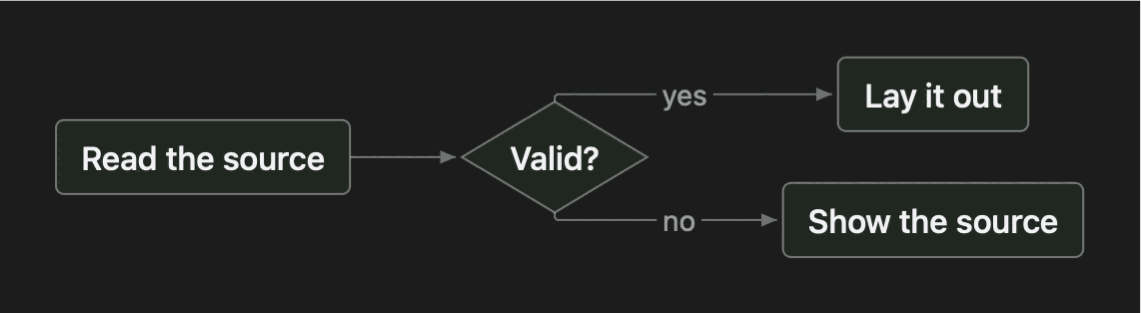
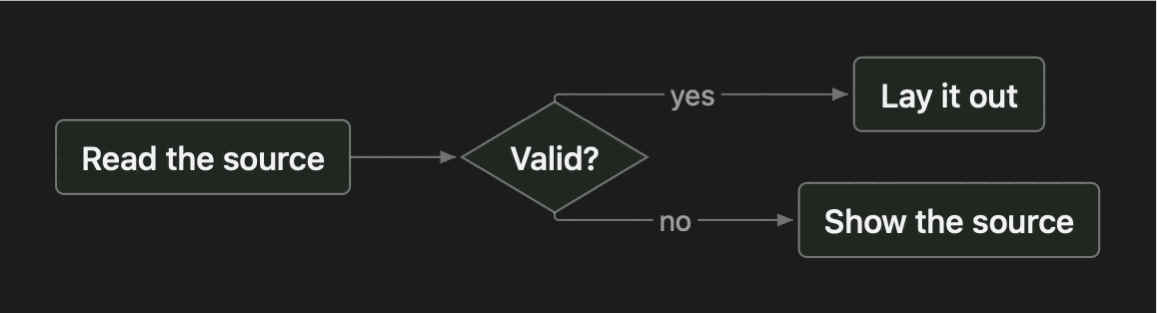
Release v2.10.0: subgraphs that span rows, fans that don't cross, ends that don't hook (#116)
CHANGELOG 2.10.0 (#102-#115), version pins 2.9.1 -> 2.10.0, test counts
from main's CI on 382ad1e (578 macOS, 546 Linux), the flowchart and
text-scale gallery images regenerated with scripts/gen-gallery.sh (the
only ones whose drawing changed), and the two new lint rules in the docs.

Claude-Session: https://claude.ai/code/session_01CeNSFRunU3xcUfxEgcN8SX

diff --git a/docs/index.html b/docs/index.html
@@ -388,7 +388,7 @@
       <div class="kicker" style="margin-top:22px">Install</div>
 <pre>.<span class="tt">package</span>(
   <span class="ta">url:</span> <span class="ts">"https://github.com/2389-research/MermaidKit.git"</span>,
-  <span class="ta">from:</span> <span class="ts">"2.9.1"</span>
+  <span class="ta">from:</span> <span class="ts">"2.10.0"</span>
 )</pre>
     </div>
     <div>
@@ -538,7 +538,7 @@ flowchart TD
     <div class="stat"><div class="n">5</div><div class="l">input front-ends: Mermaid, DOT, Dippin, SQL DDL, git log</div></div>
     <div class="stat"><div class="n">0</div><div class="l">third-party deps by default (Silica-free), JS, or WebView</div></div>
     <div class="stat"><div class="n">~25 ms</div><div class="l">worst cold render incl. rasterization (sankey); most types under ~15 ms</div></div>
-    <div class="stat"><div class="n">548</div><div class="l">tests in CI on macOS (516 on Linux)</div></div>
+    <div class="stat"><div class="n">578</div><div class="l">tests in CI on macOS (546 on Linux)</div></div>
     <div class="stat"><div class="n">6</div><div class="l">native platforms: macOS/iOS, Linux, Android, Windows, WASM, Flutter (+ framebuffer/SDL)</div></div>
     <div class="stat"><div class="n">MIT</div><div class="l">license</div></div>
   </div>
@@ -582,7 +582,7 @@ flowchart TD
     <a class="doccard" href="https://github.com/2389-research/MermaidKit/blob/main/docs/notes/sequence-primitives-research.md"><b>Sequence Primitives</b><span>The maximal set of sequence-diagram primitives, surveyed across mermaid.js, PlantUML, and ZenUML.</span></a>
     <a class="doccard" href="https://github.com/2389-research/MermaidKit/blob/main/docs/notes/development-approach.md"><b>How It's Built</b><span>The practices behind the project — strong boundaries, tests that encode taste, and verifying against reality.</span></a>
     <a class="doccard" href="https://github.com/2389-research/MermaidKit/blob/main/CONTRIBUTING.md"><b>Contributing</b><span>The lay of the land, the geometry-first review bar, and developing on Linux.</span></a>
-    <a class="doccard" href="https://github.com/2389-research/MermaidKit/blob/main/CHANGELOG.md"><b>Changelog</b><span>Every release through 2.9 — native Android/Windows/Flutter/WASM rendering, bare surfaces, cross-platform conformance, SVG export, multi-format input, full flowchart link styles and shapes, Dynamic Type, flowchart parsing checked against mermaid.js, a font family on the theme, and Mac Catalyst — with the reasoning behind each change.</span></a>
+    <a class="doccard" href="https://github.com/2389-research/MermaidKit/blob/main/CHANGELOG.md"><b>Changelog</b><span>Every release through 2.10 — native Android/Windows/Flutter/WASM rendering, bare surfaces, cross-platform conformance, SVG export, multi-format input, full flowchart link styles and shapes, Dynamic Type, flowchart parsing checked against mermaid.js, a font family on the theme, and Mac Catalyst — with the reasoning behind each change.</span></a>
   </div>
 </div></section>
 

diff --git a/Sources/MermaidKitC/MermaidKitC.swift b/Sources/MermaidKitC/MermaidKitC.swift
@@ -250,7 +250,7 @@ public func mmk_free(_ ptr: UnsafeMutablePointer<CChar>?) {
 // read thereafter (an immutable, program-lifetime C string), so the shared
 // mutable-state check doesn't apply.
 nonisolated(unsafe) private let versionCString: UnsafeMutablePointer<CChar>? =
-    strdup("MermaidKitC 2.9.1")
+    strdup("MermaidKitC 2.10.0")
 
 /// The MermaidKitC ABI version. Returns a pointer to a static string that the
 /// caller MUST NOT free (unlike the `mmk_scene_json` / `mmk_narrate` returns).

diff --git a/docs/product.md b/docs/product.md
@@ -15,14 +15,14 @@ Feature groups are labeled **G1–G12** and referenced by shorthand throughout.
 | :--- | :--- |
 | Name | MermaidKit |
 | Definition | A native Swift library that parses, lays out, and renders [Mermaid](https://mermaid.js.org) diagrams. The diagram source is the input; the library produces typed models, pure geometry (a scene IR), and drawn images and PDF — natively on Apple (CoreGraphics/CoreText), Linux (Silica/Cairo), Android (Kotlin `Canvas`/Skia), Windows/.NET (SkiaSharp), WebAssembly, and Flutter (Dart), from one platform-free layout core. No JavaScript, no WebView, no Mermaid.js. |
-| Status | **2.9** — stable public API (the 1.0 entry points are frozen; model/layout field changes are semver-major). Latest tag `v2.9.1`. Since 1.0, additive except new `NodeShape` cases (1.2.0, 2.4.0), which break exhaustive switches outside the package: alternate front-ends (Graphviz DOT, Dippin, SQL DDL, and a `git log` → gitgraph front-end) and DOT export (**G10**), a platform-free `RenderScene` render IR with standalone SVG export for all 30 types (**G12**), a terminal renderer (**G11**), diagram narration (**G6**), new flowchart node shapes and link styles, `@{ shape }` data and opt-in grid snapping (**G2**), Dynamic Type text scaling on every platform (`DiagramSpacing.textScale`, `mmk_scene_json_options`), flowchart parsing checked against mermaid.js's own parser (`;` statements, entities, `diagnose` notes for what a chart left out), a theme font family (`DiagramTheme.fontFamily`), format-aware attachment/narration entry points, and — over the platform-free `RenderScene`/`SceneWire` contract — native renderers on Android (Kotlin `Canvas`), Windows/.NET (SkiaSharp), WebAssembly, and Flutter, plus a bare-surface RGBA raster. Apple rendering is dependency-free; Linux/Silica is behind the `LinuxRaster` package trait (so no-trait consumers keep a Silica-free graph); `MermaidLayout` is platform-free. |
+| Status | **2.10** — stable public API (the 1.0 entry points are frozen; model/layout field changes are semver-major). Latest tag `v2.10.0`. Since 1.0, additive except new `NodeShape` cases (1.2.0, 2.4.0), which break exhaustive switches outside the package: alternate front-ends (Graphviz DOT, Dippin, SQL DDL, and a `git log` → gitgraph front-end) and DOT export (**G10**), a platform-free `RenderScene` render IR with standalone SVG export for all 30 types (**G12**), a terminal renderer (**G11**), diagram narration (**G6**), new flowchart node shapes and link styles, `@{ shape }` data and opt-in grid snapping (**G2**), Dynamic Type text scaling on every platform (`DiagramSpacing.textScale`, `mmk_scene_json_options`), flowchart parsing checked against mermaid.js's own parser (`;` statements, entities, `diagnose` notes for what a chart left out), a theme font family (`DiagramTheme.fontFamily`), format-aware attachment/narration entry points, and — over the platform-free `RenderScene`/`SceneWire` contract — native renderers on Android (Kotlin `Canvas`), Windows/.NET (SkiaSharp), WebAssembly, and Flutter, plus a bare-surface RGBA raster. Apple rendering is dependency-free; Linux/Silica is behind the `LinuxRaster` package trait (so no-trait consumers keep a Silica-free graph); `MermaidLayout` is platform-free. |
 | Repository | github.com/2389-research/MermaidKit |
 | Platforms | Rendering: Apple — macOS 14+, iOS 17+, Mac Catalyst 17+, visionOS 1+ (CoreGraphics/CoreText); Linux (Silica/Cairo); Android (Kotlin `Canvas`/Skia via JNI); Windows/.NET (SkiaSharp); WebAssembly; Flutter (Dart `CustomPainter`); plus a bare-surface RGBA raster (framebuffer/SDL). Geometry (`MermaidLayout`): platform-free — builds and tests on any swift-corelibs-foundation target. |
 | Language / runtime | Swift 6 (`swift-tools-version: 6.2`, strict concurrency; the Silica backend's transitive graph sets a Swift 6.2 / Xcode 26 floor). Drawing via CoreGraphics/CoreText on Apple, Silica/Cairo on Linux. Zero JavaScript at runtime; local-only. |
 | Rendering | Native geometry pipeline: parse → layout → common scene IR → draw. The layout core and scene IR are platform-free; each platform supplies only the draw surface (CoreGraphics, Silica/Cairo, Android/Skia `Canvas`, SkiaSharp, Flutter `Canvas`, or SVG). No web view, no headless browser, no Mermaid.js. |
 | Dependencies | Zero third-party packages on Apple. On Linux the render backend adds Silica (Cairo/FontConfig); `MermaidLayout` depends on nothing. |
 | Coverage | **30 distinct diagram types** (`MermaidDiagram` enum, 30-branch parser dispatch, 30-row README matrix, 30 fixtures). |
-| Verification | 548 package tests on macOS, 0 failures (4 intentionally env-gated skips). On Linux, 516 tests run in a `swift:6.2` container (2 skipped) — the `MermaidLayout` and `MermaidKitC` suites, the cross-platform `MermaidRender` tests, and the Silica render smoke tests (all 30 fixtures render). |
+| Verification | 578 package tests on macOS, 0 failures (4 intentionally env-gated skips). On Linux, 546 tests run in a `swift:6.2` container (2 skipped) — the `MermaidLayout` and `MermaidKitC` suites, the cross-platform `MermaidRender` tests, and the Silica render smoke tests (all 30 fixtures render). |
 | Origin | Built so that a diagram's source of truth stays the Mermaid text — parsed, laid out, and drawn natively in a Swift app — with layout judged by machine-checkable geometry rather than pixels, and with no runtime dependency on a JavaScript engine or web view. Consumed by the Quoin markdown editor as a first-party engine. |
 
 ---
@@ -101,7 +101,7 @@ design in `SceneGeometryAndLinting.md`.
 | Feature | Specific |
 | :--- | :--- |
 | Common scene IR | Every laid-out diagram lowers to one `DiagramScene` (nodes, edges as polylines, labels, containers) via `DiagramScene.lower(_:measure:)` — the level at which invariants are checked. |
-| Linter — errors | `edge-occludes-node` (a wire crossing a box interior), `edge-endpoint-detached`, `edges-doubled`, `nodes-overlap`, `off-canvas`, `edge-cuts-label` (a foreign edge slicing label text), `label-on-fixture` and `label-crowds-edge` (edge-label placement), `mark-escapes-plot` (a series leaving a dominant chart plot). Measured with real (Liang–Barsky) geometry and injected text metrics, not bounding-box guesses. |
+| Linter — errors | `edge-occludes-node` (a wire crossing a box interior), `edge-endpoint-detached`, `edges-doubled`, `edge-end-hooked` (a route bending within an arrowhead of a node), `nodes-overlap`, `off-canvas`, `edge-cuts-label` (a foreign edge slicing label text), `label-on-fixture`, `label-crowds-edge` and `label-cut-by-own-edge` (edge-label placement), `mark-escapes-plot` (a series leaving a dominant chart plot). Measured with real (Liang–Barsky) geometry and injected text metrics, not bounding-box guesses. |
 | Linter — warnings | `labels-overlap`, `label-over-node`, `edge-under-label`, `edge-crossings` (beyond a `max(2, edges/3)` budget). |
 | Scene delta | `SceneDelta` reports moved/added/removed nodes (with displacement vectors), rerouted edges, and canvas resize, with a one-line human summary (e.g. `+2 nodes · 3 nodes moved (max 14pt)`). |
 | Lint delta / verdict | `LintDelta` reports which violations a change cleared vs introduced and returns a verdict — `✓ fixed`, `✗ regressed (+N errors)`, `↓ improved`, or `= no error change` — the machine-readable "did this change help?" signal, above a pixel pdiff. |
@@ -167,8 +167,8 @@ Named properties with dedicated tests, run on every CI build.
 
 | Feature | Specific |
 | :--- | :--- |
-| Test suite | 548 package tests, 0 failures (4 intentionally env-gated skips: doc-image generation, single-type lint, the cross-process determinism-signature dump, and the mermaid.js oracle dump). 475 layout tests, 57 render tests, 16 MermaidKitC tests. Flowchart parsing is also checked against mermaid.js's own parser by `scripts/check-mermaid-oracle.sh` in CI: 1,330 of 1,588 charts agree, and no chart may read worse than its recorded baseline. |
-| Cross-platform | 516 tests green on Linux (`swift:6.2` container, `--traits LinuxRaster`, 2 skipped): the `MermaidLayout` and `MermaidKitC` suites, the cross-platform `MermaidRender` tests, and the Silica render smoke tests (all 30 fixtures render). `MermaidLayout` still builds on bare swift-corelibs-foundation with the default (Silica-free) graph, so the platform-free contract stays compiler-enforced. |
+| Test suite | 578 package tests, 0 failures (4 intentionally env-gated skips: doc-image generation, single-type lint, the cross-process determinism-signature dump, and the mermaid.js oracle dump). 505 layout tests, 57 render tests, 16 MermaidKitC tests. Flowchart parsing is also checked against mermaid.js's own parser by `scripts/check-mermaid-oracle.sh` in CI: 1,330 of 1,588 charts agree, and no chart may read worse than its recorded baseline. |
+| Cross-platform | 546 tests green on Linux (`swift:6.2` container, `--traits LinuxRaster`, 2 skipped): the `MermaidLayout` and `MermaidKitC` suites, the cross-platform `MermaidRender` tests, and the Silica render smoke tests (all 30 fixtures render). `MermaidLayout` still builds on bare swift-corelibs-foundation with the default (Silica-free) graph, so the platform-free contract stays compiler-enforced. |
 | Dependency policy | The Silica/Cairo Linux render backend is behind the `LinuxRaster` package trait (default OFF). A `from:`-pinned consumer resolves a Silica-free graph on every platform — no unstable branch dependency, no Cairo/PureSwift stack fetched on Apple. Linux users opt in with `traits: ["LinuxRaster"]`. |
 | CI | `test` (macOS): `swift build` + `swift test` on Xcode 26, plus a compile-only iOS-Simulator guard (a UIKit branch with no test host that must always compile) and the cross-process determinism gate (`scripts/check-determinism.sh`). `linux`: installs Cairo/FontConfig, then `swift build --traits LinuxRaster` + `swift test --traits LinuxRaster`, and a `swift build --target MermaidLayout` proving the default Silica-free graph builds. Further `ci.yml` jobs build and test the Android (Kotlin renderer, emulator + JNI, release AAR), Windows/.NET (SkiaSharp + P/Invoke), pi-canvas (Linux + SDL) and Flutter (Dart renderer, FFI) backends; `conformance.yml` gates byte-identical output on macOS, Linux, WebAssembly/WASI and Windows. |
 | Parser honesty | `ParserHonestyTests` (57 tests) pins that syntax once silently dropped or mangled now parses faithfully; `AdversarialInputTests` (11) that hostile input never crashes. |

diff --git a/docs/website/BRIEF.md b/docs/website/BRIEF.md
@@ -1,7 +1,7 @@
 # MermaidKit — design context pack
 
 You are designing a brochure site (GitHub Pages) for MermaidKit. Everything
-in this pack was verified against the code at v2.9.1 on 2026-10-27. Cite
+in this pack was verified against the code at v2.10.0 on 2026-10-29. Cite
 facts as written; do not embellish, round up, or invent. Where a claim
 feels thin, use fewer claims — the diagrams do the impressing.
 
@@ -16,7 +16,7 @@ SVG output, VoiceOver descriptions for every diagram, themed with a single
 value. MIT license.
 
 - Repo: https://github.com/2389-research/MermaidKit
-- Latest release: v2.9.1
+- Latest release: v2.10.0
 - Site target: https://2389-research.github.io/MermaidKit/ — a static
   `index.html` placed in the repo's `docs/` folder (GitHub Pages serves
   `docs/` from `main`; reference images relatively as `images/...`)
@@ -90,7 +90,7 @@ surface (all verified names):
 
 Install:
 ```swift
-.package(url: "https://github.com/2389-research/MermaidKit.git", from: "2.9.1")
+.package(url: "https://github.com/2389-research/MermaidKit.git", from: "2.10.0")
 ```
 
 ### 3. Built to meet people where they are
@@ -165,7 +165,7 @@ draw as labelled rectangles; markdown strings; HTML styling in labels
 FontAwesome icons; click/animation interactivity; mermaid.js
 theming directives (theming is `DiagramTheme`'s job).
 
-## Numbers the site may cite (verified 2026-10-19; test and oracle counts 2026-10-27)
+## Numbers the site may cite (verified 2026-10-19; test and oracle counts 2026-10-29)
 
 - **30** diagram types. **Zero** dependencies by default (Linux's Silica
   raster is an opt-in trait). Zero JavaScript, no WebView.
@@ -177,7 +177,7 @@ theming directives (theming is `DiagramTheme`'s job).
 - Parse alone: 0.05–1.9 ms per fixture.
 - Input caps mirror mermaid.js: 50,000-character sources, 500 flowchart
   edges; oversized input returns nil fast.
-- 548 tests in CI on macOS (516 on Linux), including: the geometry linter over all 30 fixtures,
+- 578 tests in CI on macOS (546 on Linux), including: the geometry linter over all 30 fixtures,
   per-fixture edge-length budgets, scene-diff edit-stability tests,
   adversarial input suite, rasterized render benchmarks, PDF export
   validation for all 30 types, alt-text determinism for all 30 types,
@@ -196,17 +196,17 @@ Each exists in light and dark; serve both via `<picture>` with
 dark variants).
 
 **Hero** — MermaidKit's own render pipeline as a sankey (~2200px wide):
-- https://raw.githubusercontent.com/2389-research/MermaidKit/v2.9.1/docs/images/hero-light.png
-- https://raw.githubusercontent.com/2389-research/MermaidKit/v2.9.1/docs/images/hero-dark.png
+- https://raw.githubusercontent.com/2389-research/MermaidKit/v2.10.0/docs/images/hero-light.png
+- https://raw.githubusercontent.com/2389-research/MermaidKit/v2.10.0/docs/images/hero-dark.png
 
 **Dynamic Type** — the same flowchart at the default text size and at 1.35×
 and 2× (`textscale-1.png`, `textscale-1.35.png`, `textscale-2.png`, each with
 a `-dark` variant), showing text growing with the boxes around it while lines
 keep their weight:
-`https://raw.githubusercontent.com/2389-research/MermaidKit/v2.9.1/docs/images/textscale-<k>.png`
+`https://raw.githubusercontent.com/2389-research/MermaidKit/v2.10.0/docs/images/textscale-<k>.png`
 
 **Per-type gallery** (30 × 2, max 2000px wide). Pattern:
-`https://raw.githubusercontent.com/2389-research/MermaidKit/v2.9.1/docs/images/types/<name>.png`
+`https://raw.githubusercontent.com/2389-research/MermaidKit/v2.10.0/docs/images/types/<name>.png`
 
 | name | the self-portrait shows |
 |---|---|
@@ -274,7 +274,7 @@ let pdf = MermaidRenderer.pdfData(source: source, theme: theme)
 
 Install:
 ```swift
-.package(url: "https://github.com/2389-research/MermaidKit.git", from: "2.9.1")
+.package(url: "https://github.com/2389-research/MermaidKit.git", from: "2.10.0")
 ```
 
 ## Voice (non-negotiable)

diff --git a/CHANGELOG.md b/CHANGELOG.md
@@ -1,6 +1,30 @@
 # Changelog
 
-## Unreleased
+## 2.10.0 — Subgraphs that span rows, fans that don't cross, ends that don't hook
+
+Flowchart routing gets a long overdue overhaul. A subgraph's box spans the
+rows its members take when an edge would otherwise point backwards; two
+edges never draw as one; a fan's edges cross far less, and every jog in a
+layer gap takes its track in the order that crosses least; and no edge ends
+on a hook. Two new linter rules find what was wrong deterministically. Over
+3,000 dense random charts, doubled edges fall from 1,246 on 2.9.1 to 0; over
+the fan, gap and hook work alone, routes through a node fall from 73 to 15,
+crossings from 419 to 258, and hooked ends (counted by the new rule) from
+2,530 to 59. Layouts change for the charts these fixes touch: a handful of
+corpus charts, and the cross-platform conformance signature, now
+`b26cce4b4a877478`, the same on every platform.
+
+### Added
+
+- **Two linter rules.** `edge-end-hooked` flags a bending route that leaves
+  or meets a node on a straight run shorter than an arrowhead and the
+  router's shortest step (`DiagramLayoutLinter.minEndRun`, 19.5pt), except a
+  loop and a decision's vertex. `label-cut-by-own-edge` flags a caption that
+  straddles a step of its own route. `DiagramScene.Node.isDecision` marks a
+  decision (a flowchart diamond, a state chart's choice), whose branches
+  fork at its vertices; it is not part of the encoded scene.
+  `DiagramLayoutLinter.minCaptionStub` names the 10pt stub
+  `label-crowds-edge` already used.
 
 ### Fixed
 
@@ -125,7 +149,7 @@
   flow, more of them than its face holds, sit one after another along their
   runs, and their gap holds them all: captions short of a full stub stay
   about level (36 to 34, 19 to 37), and on a 1,500-chart mixed-shape probe
-  fall from 161 to 112.
+  fall from 161 to 112. (#114, #115)
 
 New tests check, over seeded random graphs with cycles, self-loops and
 parallel edges, that an edge on no cycle points strictly down: in the layer

diff --git a/README.md b/README.md
@@ -32,7 +32,7 @@ Add the package with SwiftPM, then depend on the `MermaidRender` product (or
 `MermaidLayout` alone for headless parsing and layout):
 
 ```swift
-.package(url: "https://github.com/2389-research/MermaidKit.git", from: "2.9.1")
+.package(url: "https://github.com/2389-research/MermaidKit.git", from: "2.10.0")
 ```
 
 ```swift
@@ -407,7 +407,7 @@ CLI:
   The Linux raster backend is behind the `LinuxRaster` **package trait** (default
   OFF): a `from:`-pinned consumer resolves a Silica-free graph on every platform
   — no unstable branch dependency, and Apple hosts never fetch the Cairo/PureSwift
-  stack. Linux users opt in with `.package(url: …, from: "2.9.1", traits:
+  stack. Linux users opt in with `.package(url: …, from: "2.10.0", traits:
   ["LinuxRaster"])` (or `swift build --traits LinuxRaster`). Building requires
   Xcode 26 / Swift 6.2 (package traits, and Silica's graph when enabled, set that
   toolchain floor). The styling inputs are `DiagramTheme` (six colors, a

diff --git a/Sources/MermaidLayout/MermaidLayout.docc/SceneGeometryAndLinting.md b/Sources/MermaidLayout/MermaidLayout.docc/SceneGeometryAndLinting.md
@@ -51,6 +51,8 @@ geometry tests.
 | `label-crowds-edge` | error | An edge label's run leaves under 10pt of connector on a side (flowchart/state) |
 | `edge-endpoint-detached` | error | An edge has no polyline, is a zero-length stub, or an endpoint sits detached from every node (flowchart/state) |
 | `edges-doubled` | error | Two edges run doubled along a shared line (overlapping connectors) (flowchart/state) |
+| `edge-end-hooked` | error | A bending route leaves or meets a node on a straight run under an arrowhead and the router's shortest step (`minEndRun`, 19.5pt); loops and a decision's vertices are exempt (flowchart/state) |
+| `label-cut-by-own-edge` | error | A segment of a caption's own route, off the run it rides, passes through it (flowchart/state) |
 | `labels-overlap` / `label-over-node` | warning | Colliding text |
 | `edge-under-label` | warning | An edge passes under a backed (chip) label |
 | `edge-crossings` | warning | Crossing count beyond a budget |

diff --git a/Sources/MermaidRender/MermaidRender.docc/GettingStarted.md b/Sources/MermaidRender/MermaidRender.docc/GettingStarted.md
@@ -6,7 +6,7 @@ app's shape.
 ## Add the package
 
 ```swift
-.package(url: "https://github.com/2389-research/MermaidKit.git", from: "2.9.1")
+.package(url: "https://github.com/2389-research/MermaidKit.git", from: "2.10.0")
 ```
 
 Depend on the `MermaidRender` product (it brings `MermaidLayout` with it).
